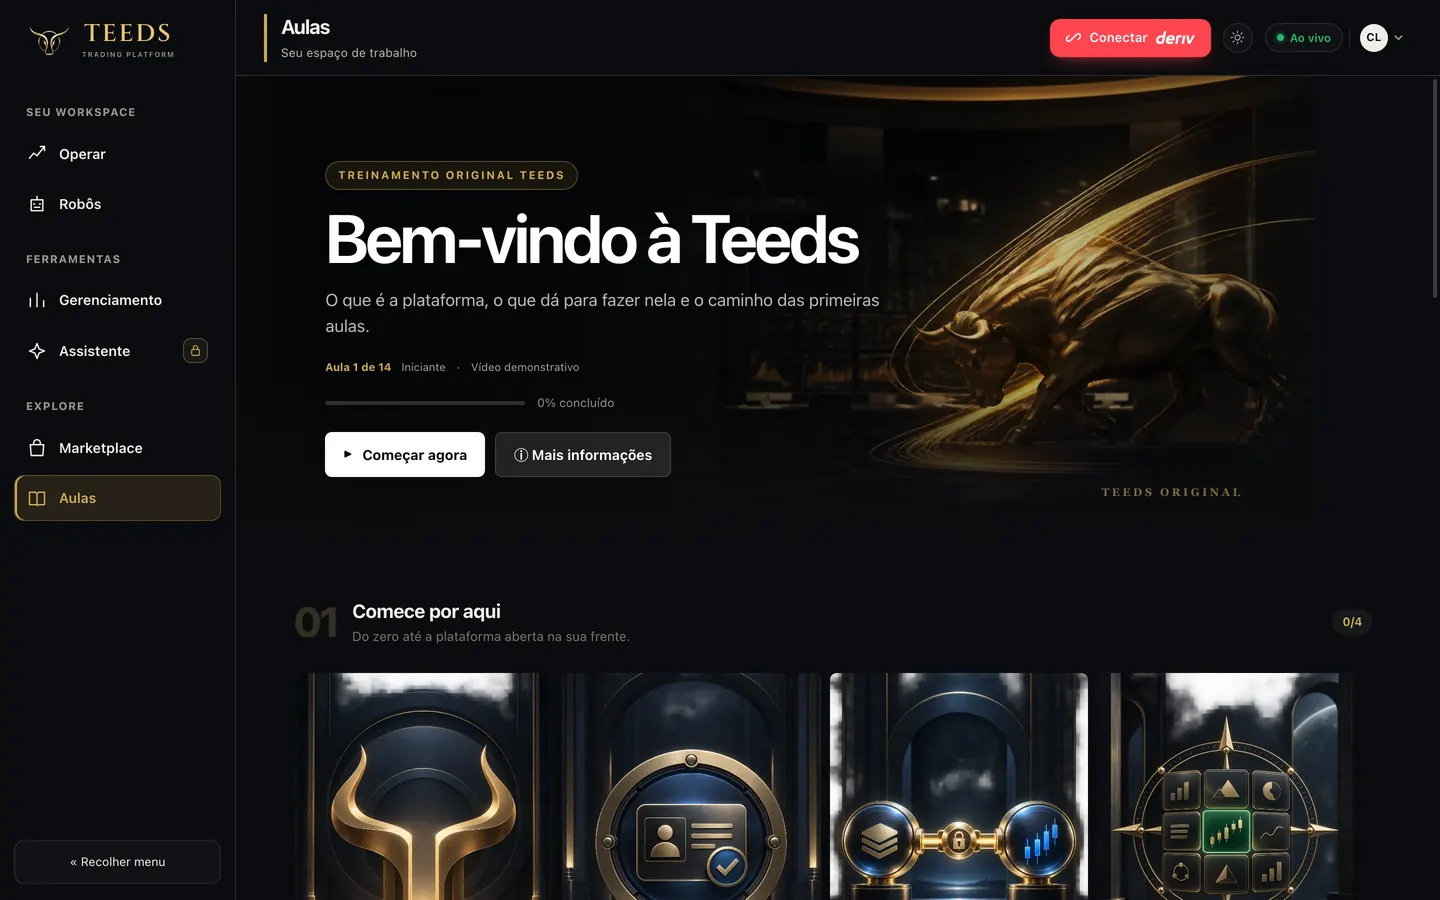
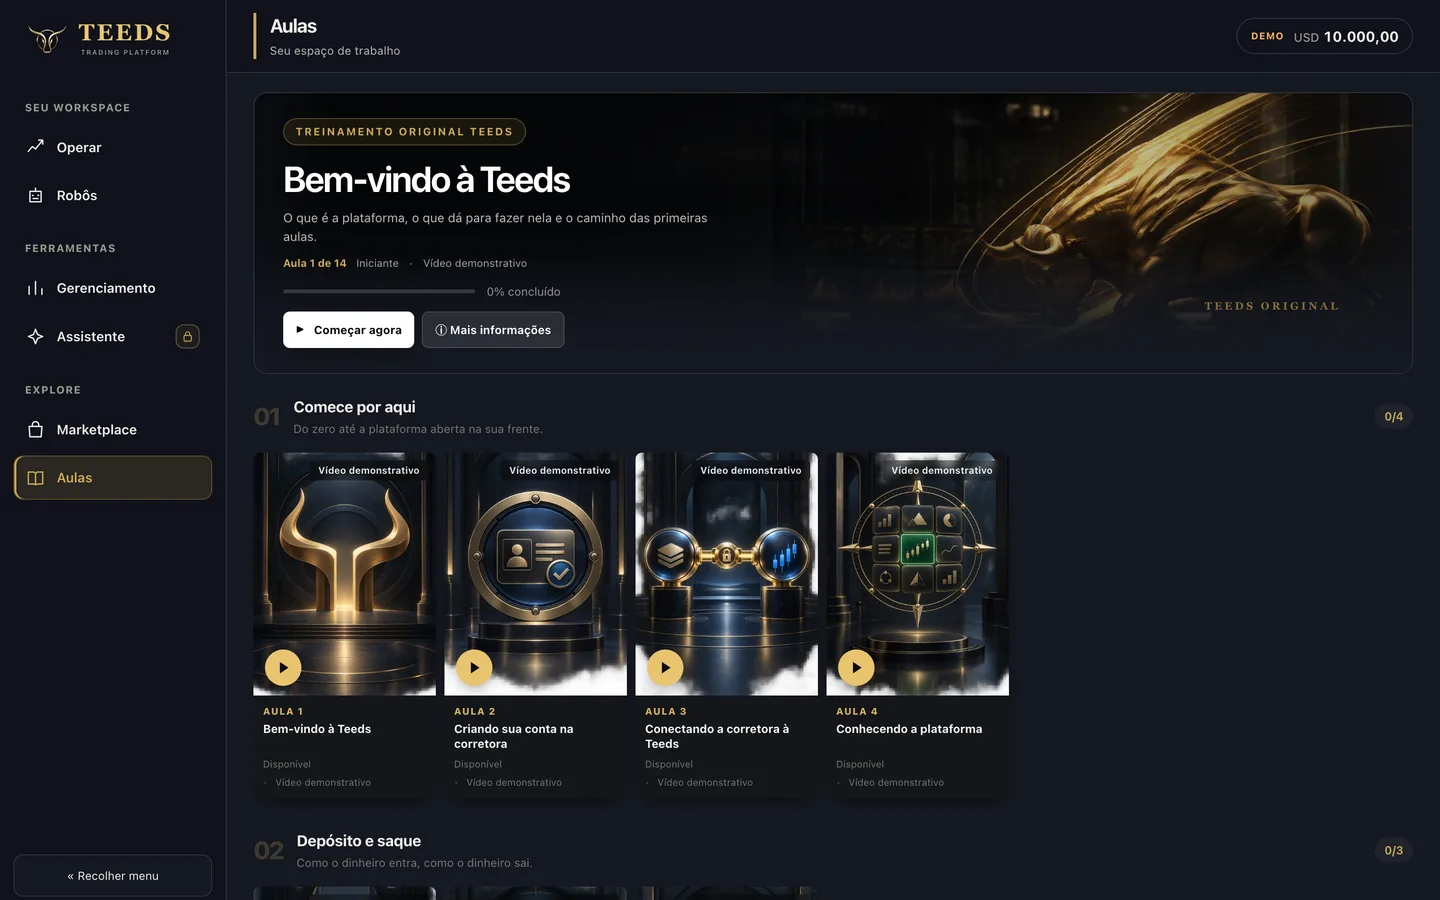
Telas novas na landing, tiradas de uma bancada que da para recapturar
As fotos eram de 15/09 e nao mostravam a cabine com analise, a lista de
robos nem o Gerenciamento de hoje. Agora preview/telas.tsx monta as mesmas
telas com os mesmos componentes e dados de exemplo, e o Chrome headless
captura as quatro (Robos, Gerenciamento, Aulas, Marketplace) nas duas
marcas. Sai a tela Operar, entra a de Robos, que e o que a pagina vende.

diff --git a/preview/telas.tsx b/preview/telas.tsx
@@ -1,0 +1,169 @@
+/* Bancada de captura das telas da landing (dev-only).
+ *
+ * As fotos de `captura/plataforma/*.webp` mostram a plataforma por dentro.
+ * Tirar print da plataforma de verdade exige login, conta conectada e robô
+ * rodando — e as fotos envelhecem a cada mudança de tela. Esta página monta
+ * as MESMAS telas com os MESMOS componentes, alimentados por dados de
+ * exemplo: dá para recapturar quando quiser, sem conta e sem operação.
+ *
+ *   npx vite            → http://localhost:5194/preview/telas.html?tela=robos
+ *   MARCA=omni npx vite → a mesma coisa, com a casca da OMNI
+ *
+ * Nada aqui vai para o site publicado: o Vite só monta index.html.
+ */
+import { createRoot } from 'react-dom/client'
+import { WorkspaceNav } from '../src/components/WorkspaceNav'
+import { RobotLinha } from '../src/components/RobotResumo'
+import { RobotLive } from '../src/components/RobotLive'
+import { RobotOverview } from '../src/components/RobotOverview'
+import { OperationalManagementPanel } from '../src/components/OperationalManagementPanel'
+import { AulasPanel } from '../src/components/AulasPanel'
+import { MarketplacePanel } from '../src/components/MarketplacePanel'
+import { identidade } from '../src/core/deriv/branding'
+import { ESTRATEGIAS_LOCAIS } from '../src/core/deriv/strategies'
+import { aplicarTema } from '../src/core/tema'
+import { MARCA } from '../src/marca'
+import type { ConfigEstrategia, EstadoMotor } from '../src/core/deriv/engine'
+import type { SessaoViva } from '../src/core/teeds/servidorRobos'
+import '../src/styles/app.css'
+import '../src/styles/tema.css'
+import '../src/components/robot-workspace.css'
+import '../src/styles/ux-refinements.css'
+import '../src/styles/mobile-polish.css'
+
+const tela = new URLSearchParams(location.search).get('tela') ?? 'robos'
+
+/* ------------------------------------------------------------ exemplos */
+/* Sessões de conta demo, com números modestos: a landing diz que a
+   demonstração é ilustrativa, e nenhuma delas promete resultado. */
+const config: ConfigEstrategia = {
+  valorInicial: 1, valorAoVencer: 1, fatorGale: 0.05, galeApos: 1,
+  valorMaximo: 0, takeProfit: 20, stopLoss: 40, maxOperacoes: 0,
+}
+const semente = (n: number) => { let s = n * 9301 + 49297; return () => ((s = (s * 9301 + 49297) % 233280) / 233280) }
+
+function estado(i: number, ops: number, resultado: number, rodando = true): EstadoMotor {
+  const rnd = semente(i + 3)
+  const historico = Array.from({ length: 10 }, (_, k) => {
+    const ganhou = rnd() > 0.38
+    const valor = k === 2 ? 2.41 : 1
+    return {
+      n: ops - k, contractId: 5000 + i * 100 + k, valor,
+      entrada: 4532.4748 + k, saida: 4532.4751 + k,
+      digitoEntrada: Math.floor(rnd() * 10), digitoSaida: Math.floor(rnd() * 10),
+      lucro: ganhou ? +(valor * 1.92).toFixed(2) : -valor,
+      payout: +(valor * 2.92).toFixed(2), markupDeriv: 0.0437, ganhou,
+      quando: Date.now() - k * 2400, esperou: 1, contractType: 'DIGITOVER', pipSize: 4,
+    }
+  })
+  const curva = Array.from({ length: 22 }, (_, k) => +(resultado * (k / 21) + (rnd() - 0.5) * 3).toFixed(2))
+  curva[curva.length - 1] = resultado
+  return {
+    rodando, emOperacao: false, operacoes: ops,
+    vitorias: Math.round(ops * 0.42), derrotas: ops - Math.round(ops * 0.42),
+    perdasSeguidas: i === 1 ? 2 : 0, resultado, movimentado: ops * 1.6, valorAtual: i === 1 ? 2.41 : 1,
+    aguardando: i === 1 ? 'sequência em andamento — entra na próxima' : 'esperando loss virtual — 2/4',
+    motivoParada: null, registros: [], digitos: [8, 3, 9, 1, 7, 2, 8, 5, 0, 9],
+    curva, condicao: null, ultimoLucro: 1.92, historico,
+    emCurso: i === 1 ? { contractId: 1, valor: 2.41, comprouEm: Date.now() - 1200 } : null,
+    ticksAnalisados: 18, latenciaMedia: 120, falha: null,
+  } as unknown as EstadoMotor
+}
+
+const robos = MARCA.robos.slice(0, 4)
+const sessoes: SessaoViva[] = robos.map((id, i) => ({
+  id: `exemplo-${i}`, roboId: id, roboNome: identidade(id).nome,
+  contaId: 'VRTC1234567', demo: true, moeda: 'USD', origem: 'navegador',
+  config, erro: null, estado: estado(i, [84, 126, 57, 38][i], [12.4, 18.9, 6.2, 9.7][i]),
+}))
+
+/* ---------------------------------------------------------------- casca */
+function Casca({ titulo, sub, children }: { titulo: string; sub: string; children: React.ReactNode }) {
+  return (
+    <div className="app workspace-app">
+      <WorkspaceNav page={tela === 'operar' ? 'operar' : tela === 'aulas' ? 'aulas' : tela === 'marketplace' ? 'marketplace' : tela === 'gerenciamento' ? 'gestao' : 'robos'} admin={false} onNavigate={() => {}} />
+      <header className="topbar">
+        <div className="workspace-heading"><strong>{titulo}</strong><span>{sub}</span></div>
+        <div className="topbar-right">
+          <div className="conta-chip" style={{ display: 'flex', alignItems: 'center', gap: 10, padding: '7px 14px', border: '1px solid var(--border)', borderRadius: 999, fontVariantNumeric: 'tabular-nums' }}>
+            <em style={{ fontStyle: 'normal', fontSize: 10, fontWeight: 750, letterSpacing: '.08em', color: 'var(--account-demo)' }}>DEMO</em>
+            <b style={{ fontSize: 15 }}><small style={{ color: 'var(--muted)', fontWeight: 500, marginRight: 4 }}>USD</small>10.000,00</b>
+          </div>
+        </div>
+      </header>
+      <div className="tela-viva">{children}</div>
+    </div>
+  )
+}
+
+/* ---------------------------------------------------------------- robôs */
+function Robos() {
+  const aberta = sessoes[0]
+  const estrategia = ESTRATEGIAS_LOCAIS.find((e) => e.id === aberta.roboId) ?? ESTRATEGIAS_LOCAIS[0]
+  const linha = (s: SessaoViva, i: number) => ({
+    estado: s.estado, config, moeda: 'USD', nome: s.roboNome, cor: identidade(s.roboId).cor,
+    numero: `#${i + 1}`, inicio: Date.now() - (i + 1) * 900_000, demo: true,
+    modo: i === 0 ? 'Agressivo' : i === 1 ? 'Conservador' : null,
+    onDesligar: () => {}, onRemover: () => {},
+  })
+  return (
+    <Casca titulo="Robôs" sub="Estratégias e acompanhamento">
+      <div className="ger rob robot-workspace tem-acompanhamento">
+        <div className="ger-topo rob-workspace-header">
+          <div>
+            <span className="rob-eyebrow">CENTRAL DE ROBÔS</span>
+            <h2>Suas sessões</h2>
+          </div>
+          <div className="rob-workspace-actions"><button className="rob-new-button">+ Novo robô</button></div>
+        </div>
+        <RobotOverview sessoes={sessoes} />
+        <div className="rob-workspace-toolbar">
+          <div><b>Área de acompanhamento</b><span>Clique numa linha para abrir a cabine dela. Os outros robôs seguem operando na linha deles.</span></div>
+          <div className="rob-view-options"><button aria-pressed>☰ Em lista</button><button aria-pressed={false}>▦ Mosaico</button></div>
+        </div>
+        <div className="rob-workspace-board modo-lista">
+          <div className="rob-board-group">
+            <div className="rob-board-slot aberta">
+              <div className="cabine-caixa aberta rodando" style={{ ['--robo' as string]: identidade(aberta.roboId).cor, ['--robo-suave' as string]: identidade(aberta.roboId).corSuave }}>
+                <RobotLinha {...linha(aberta, 0)} aberta onAbrir={() => {}} />
+                <RobotLive
+                  estado={aberta.estado} config={config} moeda="USD"
+                  contaDaSessao={{ contaId: aberta.contaId, demo: true, moeda: 'USD' }}
+                  estrategiaId={estrategia.id} nomeEstrategia={aberta.roboNome}
+                  ativo="Volatility 75 Index" titulo="#1" regra={estrategia.descricao ?? ''}
+                  cor={identidade(aberta.roboId).cor} ganhaCom={(d: number) => d >= 7}
+                  parametros={[
+                    { rot: 'Ativo', valor: 'Volatility 75' },
+                    { rot: 'Entrada', valor: 'USD 1,00' },
+                    { rot: 'Recuperação', valor: 'modo agressivo' },
+                    { rot: 'Teto', valor: 'sem teto' },
+                    { rot: 'Para se ganhar', valor: 'USD 20,00' },
+                    { rot: 'Para se perder', valor: 'USD 40,00' },
+                  ]}
+                  conexao="open" />
+              </div>
+            </div>
+            {sessoes.slice(1).map((s, i) => (
+              <div className="rob-board-slot" key={s.id}>
+                <div className="cabine-caixa linha rodando" style={{ ['--robo' as string]: identidade(s.roboId).cor, ['--robo-suave' as string]: identidade(s.roboId).corSuave }}>
+                  <RobotLinha {...linha(s, i + 1)} aberta={false} onAbrir={() => {}} />
+                </div>
+              </div>
+            ))}
+          </div>
+        </div>
+      </div>
+    </Casca>
+  )
+}
+
+const TELAS: Record<string, () => JSX.Element> = {
+  robos: Robos,
+  gerenciamento: () => <Casca titulo="Gerenciamento" sub="Seu espaço de trabalho"><OperationalManagementPanel /></Casca>,
+  aulas: () => <Casca titulo="Aulas" sub="Seu espaço de trabalho"><AulasPanel nome="Tiago" /></Casca>,
+  marketplace: () => <Casca titulo="Marketplace" sub="Seu espaço de trabalho"><MarketplacePanel /></Casca>,
+}
+
+aplicarTema('escuro')
+const Tela = TELAS[tela] ?? Robos
+createRoot(document.getElementById('root')!).render(<Tela />)

diff --git a/docs/cadastro/index.html b/docs/cadastro/index.html
@@ -313,7 +313,7 @@ body > footer p{text-align:center;line-height:1.6;margin:0}body > footer small{t
 
     <!-- ========================================================= POR DENTRO -->
     <section class="bloco" id="por-dentro">
-      <div class="bloco-cab"><span class="sobretitulo">A plataforma por dentro</span><h2>Feita para você entender tudo de relance</h2><p>Telas reais da plataforma. Limpa, direta e igual no computador e no celular.</p></div>
+      <div class="bloco-cab"><span class="sobretitulo">A plataforma por dentro</span><h2>Feita para você entender tudo de relance</h2><p>As telas da plataforma, com dados de exemplo. Limpa, direta e igual no computador e no celular.</p></div>
       <div class="galeria" data-galeria></div>
     </section>
 
@@ -451,13 +451,13 @@ const config = marca === 'omni' ? {
   intro: 'A OMNI reúne robôs de operação, gestão de risco e acompanhamento ao vivo em uma plataforma só. Você define quanto quer ganhar e quanto aceita perder; o robô cuida da execução, 24 horas, na sua conta da corretora.',
   robos: [['ag2', 'OMNI Under', 'Espera o mercado errar quatro vezes.'], ['superior5', 'OMNI Over', 'A mesma espera, nos dígitos altos.'], ['firstblock', 'OMNI Bull', 'Metade de baixo, com loss virtual.'], ['secondblock', 'OMNI Bear', 'Metade de cima, mesma regra do Bull.']],
   demo: { id: 'firstblock', nome: 'OMNI Bull' },
-  fotos: [['omni-operar.webp', 'Operar', 'Gráfico ao vivo, indicadores e contratos manuais na mesma tela.'], ['omni-gerenciamento.webp', 'Gerenciamento', 'A planilha que calcula entrada, limites e objetivo antes de ligar o robô.'], ['omni-aulas.webp', 'Aulas', 'O treinamento da plataforma, do primeiro acesso à leitura de dígitos.'], ['omni-marketplace.webp', 'Marketplace', 'Ferramentas e produtos da casa, como o Simulador de Treinamento.']],
+  fotos: [['omni-robos.webp', 'Robôs', 'Cada robô numa linha, com a cabine aberta mostrando a análise, as operações e a curva da sessão.'], ['omni-gerenciamento.webp', 'Gerenciamento', 'A planilha que calcula entrada, limites e objetivo antes de ligar o robô.'], ['omni-aulas.webp', 'Aulas', 'O treinamento da plataforma, do primeiro acesso à leitura de dígitos.'], ['omni-marketplace.webp', 'Marketplace', 'Ferramentas e produtos da casa, como o Simulador de Treinamento.']],
 } : {
   nome: 'TEEDS', cor: '#d2aa51', escura: '#8c6926', emblema: '/teeds-marca.png', assinatura: 'TRADING TECHNOLOGY',
   intro: 'A Teeds reúne robôs de operação, gestão de risco e acompanhamento ao vivo em uma plataforma só. Você define quanto quer ganhar e quanto aceita perder; o robô cuida da execução, 24 horas, na sua conta da corretora.',
   robos: [['thepalm', 'The Palm', 'Lê 25 dígitos antes de agir.'], ['superior5', 'Teeds AG7', 'Espera quatro losses virtuais e entra.'], ['ag2', 'Teeds AG2', 'A mesma espera, nos dígitos baixos.'], ['smart03', 'Teeds Smart 03', 'Contratos de 1 tick, ritmo alto.'], ['goreme', 'Teeds Göreme', 'Acerta muito, recupera na primeira perda.'], ['firstblock', 'First Block', 'Metade de baixo, com loss virtual.'], ['secondblock', 'Second Block', 'Metade de cima, com loss virtual.']],
   demo: { id: 'thepalm', nome: 'The Palm' },
-  fotos: [['teeds-operar.webp', 'Operar', 'Gráfico ao vivo, indicadores e contratos manuais na mesma tela.'], ['teeds-gerenciamento.webp', 'Gerenciamento', 'A planilha que calcula entrada, limites e objetivo antes de ligar o robô.'], ['teeds-aulas.webp', 'Aulas', 'O treinamento da plataforma, do primeiro acesso à leitura de dígitos.'], ['teeds-marketplace.webp', 'Marketplace', 'Ferramentas e produtos da casa, como o Simulador de Treinamento.']],
+  fotos: [['teeds-robos.webp', 'Robôs', 'Cada robô numa linha, com a cabine aberta mostrando a análise, as operações e a curva da sessão.'], ['teeds-gerenciamento.webp', 'Gerenciamento', 'A planilha que calcula entrada, limites e objetivo antes de ligar o robô.'], ['teeds-aulas.webp', 'Aulas', 'O treinamento da plataforma, do primeiro acesso à leitura de dígitos.'], ['teeds-marketplace.webp', 'Marketplace', 'Ferramentas e produtos da casa, como o Simulador de Treinamento.']],
 }
 document.documentElement.dataset.marca = marca
 document.documentElement.style.setProperty('--cor', config.cor)

diff --git a/captura/landing.js b/captura/landing.js
@@ -19,13 +19,13 @@ const config = marca === 'omni' ? {
   intro: 'A OMNI reúne robôs de operação, gestão de risco e acompanhamento ao vivo em uma plataforma só. Você define quanto quer ganhar e quanto aceita perder; o robô cuida da execução, 24 horas, na sua conta da corretora.',
   robos: [['ag2', 'OMNI Under', 'Espera o mercado errar quatro vezes.'], ['superior5', 'OMNI Over', 'A mesma espera, nos dígitos altos.'], ['firstblock', 'OMNI Bull', 'Metade de baixo, com loss virtual.'], ['secondblock', 'OMNI Bear', 'Metade de cima, mesma regra do Bull.']],
   demo: { id: 'firstblock', nome: 'OMNI Bull' },
-  fotos: [['omni-operar.webp', 'Operar', 'Gráfico ao vivo, indicadores e contratos manuais na mesma tela.'], ['omni-gerenciamento.webp', 'Gerenciamento', 'A planilha que calcula entrada, limites e objetivo antes de ligar o robô.'], ['omni-aulas.webp', 'Aulas', 'O treinamento da plataforma, do primeiro acesso à leitura de dígitos.'], ['omni-marketplace.webp', 'Marketplace', 'Ferramentas e produtos da casa, como o Simulador de Treinamento.']],
+  fotos: [['omni-robos.webp', 'Robôs', 'Cada robô numa linha, com a cabine aberta mostrando a análise, as operações e a curva da sessão.'], ['omni-gerenciamento.webp', 'Gerenciamento', 'A planilha que calcula entrada, limites e objetivo antes de ligar o robô.'], ['omni-aulas.webp', 'Aulas', 'O treinamento da plataforma, do primeiro acesso à leitura de dígitos.'], ['omni-marketplace.webp', 'Marketplace', 'Ferramentas e produtos da casa, como o Simulador de Treinamento.']],
 } : {
   nome: 'TEEDS', cor: '#d2aa51', escura: '#8c6926', emblema: '/teeds-marca.png', assinatura: 'TRADING TECHNOLOGY',
   intro: 'A Teeds reúne robôs de operação, gestão de risco e acompanhamento ao vivo em uma plataforma só. Você define quanto quer ganhar e quanto aceita perder; o robô cuida da execução, 24 horas, na sua conta da corretora.',
   robos: [['thepalm', 'The Palm', 'Lê 25 dígitos antes de agir.'], ['superior5', 'Teeds AG7', 'Espera quatro losses virtuais e entra.'], ['ag2', 'Teeds AG2', 'A mesma espera, nos dígitos baixos.'], ['smart03', 'Teeds Smart 03', 'Contratos de 1 tick, ritmo alto.'], ['goreme', 'Teeds Göreme', 'Acerta muito, recupera na primeira perda.'], ['firstblock', 'First Block', 'Metade de baixo, com loss virtual.'], ['secondblock', 'Second Block', 'Metade de cima, com loss virtual.']],
   demo: { id: 'thepalm', nome: 'The Palm' },
-  fotos: [['teeds-operar.webp', 'Operar', 'Gráfico ao vivo, indicadores e contratos manuais na mesma tela.'], ['teeds-gerenciamento.webp', 'Gerenciamento', 'A planilha que calcula entrada, limites e objetivo antes de ligar o robô.'], ['teeds-aulas.webp', 'Aulas', 'O treinamento da plataforma, do primeiro acesso à leitura de dígitos.'], ['teeds-marketplace.webp', 'Marketplace', 'Ferramentas e produtos da casa, como o Simulador de Treinamento.']],
+  fotos: [['teeds-robos.webp', 'Robôs', 'Cada robô numa linha, com a cabine aberta mostrando a análise, as operações e a curva da sessão.'], ['teeds-gerenciamento.webp', 'Gerenciamento', 'A planilha que calcula entrada, limites e objetivo antes de ligar o robô.'], ['teeds-aulas.webp', 'Aulas', 'O treinamento da plataforma, do primeiro acesso à leitura de dígitos.'], ['teeds-marketplace.webp', 'Marketplace', 'Ferramentas e produtos da casa, como o Simulador de Treinamento.']],
 }
 document.documentElement.dataset.marca = marca
 document.documentElement.style.setProperty('--cor', config.cor)

diff --git a/captura/index.html b/captura/index.html
@@ -93,7 +93,7 @@
 
     <!-- ========================================================= POR DENTRO -->
     <section class="bloco" id="por-dentro">
-      <div class="bloco-cab"><span class="sobretitulo">A plataforma por dentro</span><h2>Feita para você entender tudo de relance</h2><p>Telas reais da plataforma. Limpa, direta e igual no computador e no celular.</p></div>
+      <div class="bloco-cab"><span class="sobretitulo">A plataforma por dentro</span><h2>Feita para você entender tudo de relance</h2><p>As telas da plataforma, com dados de exemplo. Limpa, direta e igual no computador e no celular.</p></div>
       <div class="galeria" data-galeria></div>
     </section>
 

diff --git a/preview/telas.html b/preview/telas.html
@@ -1,0 +1,2 @@
+<!doctype html>
+<html lang="pt-BR" data-tema="escuro"><head><meta charset="UTF-8"/><meta name="viewport" content="width=device-width,initial-scale=1"/><title>Telas para a landing</title></head><body><div id="root"></div><script type="module" src="./telas.tsx"></script></body></html>

diff --git a/PROPOSTA-termos-monitoramento.md b/PROPOSTA-termos-monitoramento.md
@@ -1,0 +1,79 @@
+# Proposta de redação — monitoramento operacional (Teeds e OMNI)
+
+**Status: rascunho para revisão do Tiago. Não publicado.**
+
+Objetivo: descrever, nos Termos de Uso e na Política de Privacidade das duas
+marcas, a coleta e o uso dos dados operacionais gerados pela própria
+plataforma quando um robô está ligado — o que o painel "Monitoramento ao
+vivo" da administração lê. Texto único, com a marca trocada pela variável
+`{MARCA}` (Teeds / OMNI).
+
+---
+
+## Termos de Uso — nova cláusula "Acompanhamento operacional"
+
+**X. Acompanhamento operacional das sessões de robô.**
+Ao ligar um robô, o cliente autoriza a {MARCA} a registrar e acompanhar,
+inclusive em tempo real, os dados operacionais gerados pela própria
+plataforma durante a sessão: robô e estratégia escolhidos, ativo, valores de
+entrada, meta e limite de perda configurados, contratos comprados e
+liquidados, resultados, sequências de recuperação, análises da estratégia,
+estado da conexão com a corretora e horários. Esses dados são produzidos
+pelo servidor que executa o robô — e não pelo navegador do cliente — e são
+os mesmos que aparecem na cabine do próprio cliente.
+
+O acompanhamento serve a: (i) suporte ao cliente; (ii) segurança e prevenção
+de uso indevido; (iii) diagnóstico de falhas; (iv) auditoria interna; e
+(v) melhoria do produto. Ele é feito exclusivamente por administradores da
+{MARCA}, com registro de cada acesso (quem, quando e qual sessão).
+
+O acompanhamento operacional **não** inclui, em nenhuma hipótese: captura de
+tela, vídeo ou áudio; câmera ou microfone; teclado, mouse ou área de
+transferência; outras abas, aplicativos ou arquivos do dispositivo; senhas,
+tokens de acesso, chaves de API ou dados completos de cartão; nem conteúdo
+de mensagens. A {MARCA} não executa operações na conta do cliente por meio
+desse acompanhamento: o painel é somente leitura.
+
+## Política de Privacidade — novo item em "Quais dados tratamos"
+
+**Dados operacionais das sessões de robô.** Quando você liga um robô, o
+servidor da {MARCA} registra a sessão e cada operação (valores, contratos,
+resultados, análises da estratégia, estado da conexão e horários), com o
+identificador da sua conta na corretora de forma mascarada nas telas
+administrativas. Base legal: execução do contrato (art. 7º, V, LGPD) e
+legítimo interesse para segurança e prevenção a fraudes (art. 7º, IX).
+Finalidades: prestar o serviço, dar suporte, diagnosticar falhas, auditar e
+melhorar o produto.
+
+**Quem acessa.** Somente administradores da {MARCA}, cada um restrito à sua
+própria plataforma. Todo acesso a uma sessão pelo painel de monitoramento
+fica registrado (administrador, data e hora, sessão e cliente visualizados,
+ao vivo ou histórico).
+
+**Por quanto tempo.** O detalhe evento a evento de cada sessão é mantido por
+14 dias; a foto final e o resumo da sessão, pelo prazo geral do histórico de
+operações; os registros de acesso administrativo, por 12 meses.
+
+**O que não coletamos.** Não capturamos tela, vídeo, áudio, câmera,
+microfone, teclado, mouse, área de transferência, outras abas ou
+aplicativos, arquivos locais, localização precisa, senhas, tokens ou chaves.
+A localização aproximada usada em estatísticas vem apenas do fuso horário e
+do idioma informados pelo navegador.
+
+**Seus direitos.** Continuam os já descritos nesta Política (acesso,
+correção, eliminação, portabilidade e oposição), pelo canal de atendimento
+da {MARCA}.
+
+---
+
+## Notas para a revisão
+
+1. Conferir com o jurídico a base legal escolhida para o legítimo interesse
+   (segurança/prevenção a fraudes) e se cabe um aviso curto na tela de
+   ligar o robô — o pedido atual é de **nenhuma** mudança visual no cliente,
+   então a proposta é descrever apenas nos documentos.
+2. Os prazos (14 dias / 12 meses) espelham a retenção implementada no banco
+   (`teeds_limpar_espelho`). Se o jurídico pedir outros, a função aceita
+   parâmetros.
+3. A descrição vale para as duas marcas; publicar em cada domínio com o
+   nome respectivo.

diff --git a/captura/LEIA-ME.md b/captura/LEIA-ME.md
@@ -12,3 +12,28 @@ nunca é entregue ao navegador.
 Antes de publicar, é obrigatório: aplicar a migração
 `20260909143000_captacao_publica_de_leads.sql`, atualizar o motor, apontar os dois
 subdomínios para a hospedagem desta pasta e revisar o texto de privacidade/LGPD.
+
+## As telas da plataforma (`plataforma/*.webp`)
+
+Elas não são print da plataforma de verdade: são as MESMAS telas, montadas
+com os mesmos componentes e dados de exemplo, na bancada `preview/telas.tsx`.
+Assim dá para recapturar depois de qualquer mudança de layout, sem login,
+sem conta conectada e sem robô operando.
+
+Para refazer (Chrome instalado, na raiz do projeto):
+
+```
+npx vite --port 5194 &                     # Teeds
+MARCA=omni npx vite --port 5195 &          # OMNI
+CH="/Applications/Google Chrome.app/Contents/MacOS/Google Chrome"
+for m in teeds:5194 omni:5195; do marca=${m%%:*}; porta=${m##*:}
+  for t in robos gerenciamento aulas marketplace; do
+    "$CH" --headless=new --hide-scrollbars --force-device-scale-factor=2 \
+      --window-size=1500,1120 --virtual-time-budget=9000 \
+      --screenshot="/tmp/$marca-$t.png" \
+      "http://127.0.0.1:$porta/preview/telas.html?tela=$t"
+  done
+done
+```
+
+Depois recorte para 16:10 e salve em WEBP 1440x900, qualidade 82.
